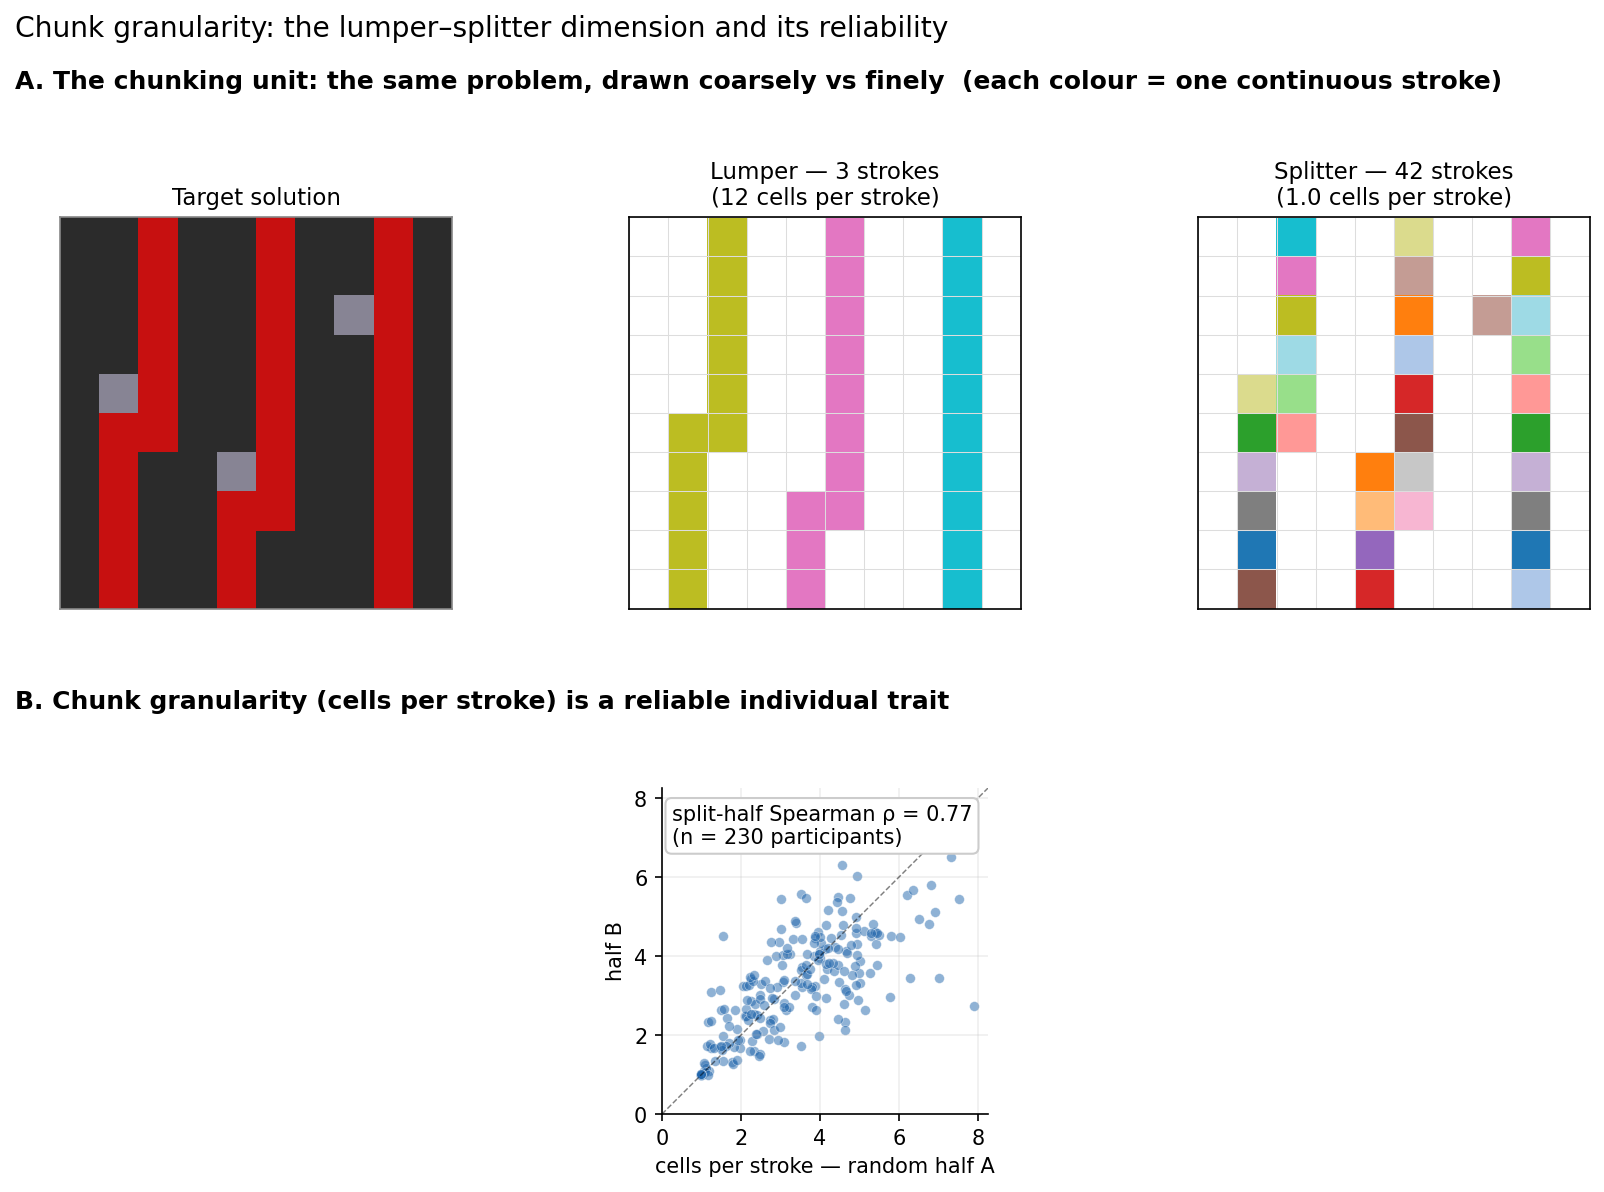
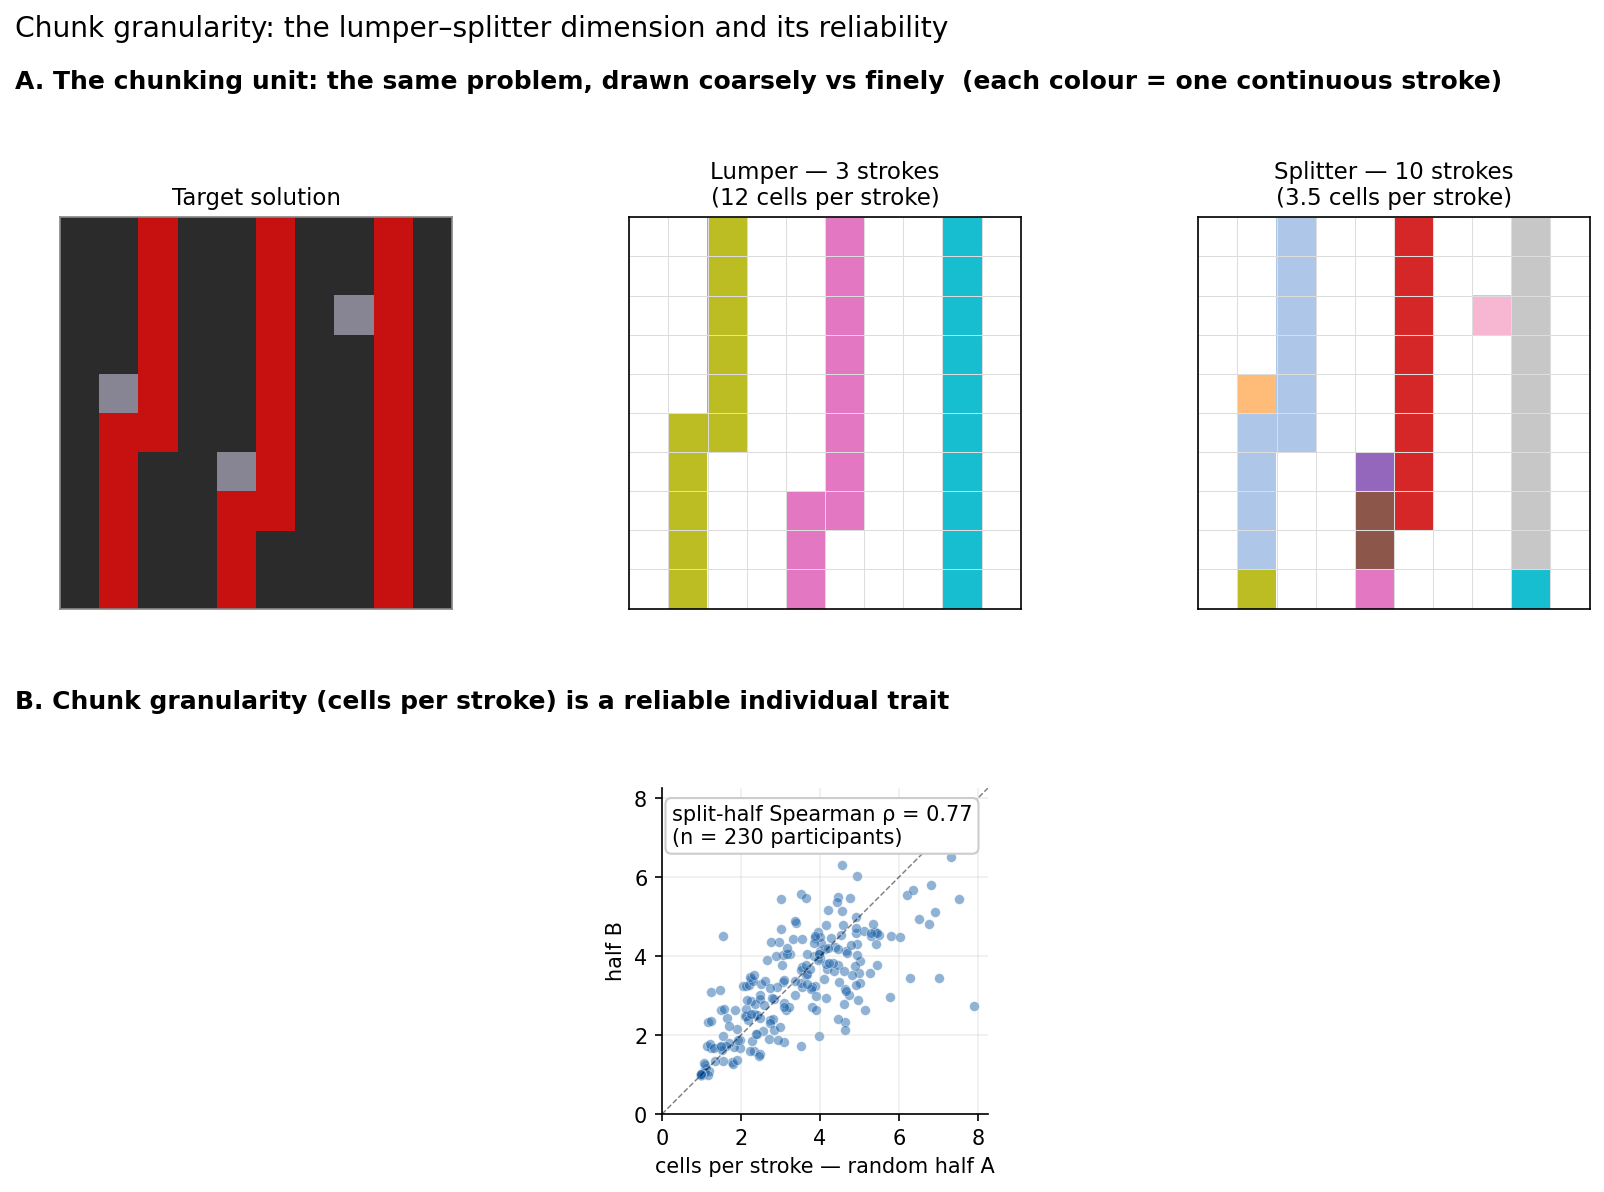
Concept figure: use a moderate splitter (10 strokes, drags) vs lumper (3)

diff --git a/plot_concept_strokes.py b/plot_concept_strokes.py
@@ -113,7 +113,7 @@ def main():
     ap = argparse.ArgumentParser()
     ap.add_argument("--task", default="d9f24cd1")
     ap.add_argument("--lumper", default="j2dvablb")
-    ap.add_argument("--splitter", default="icf7bchs")
+    ap.add_argument("--splitter", default="c2lwacqc")
     ap.add_argument("--out", default="prior_analysis/concept_strokes_figure.png")
     args = ap.parse_args()
 
